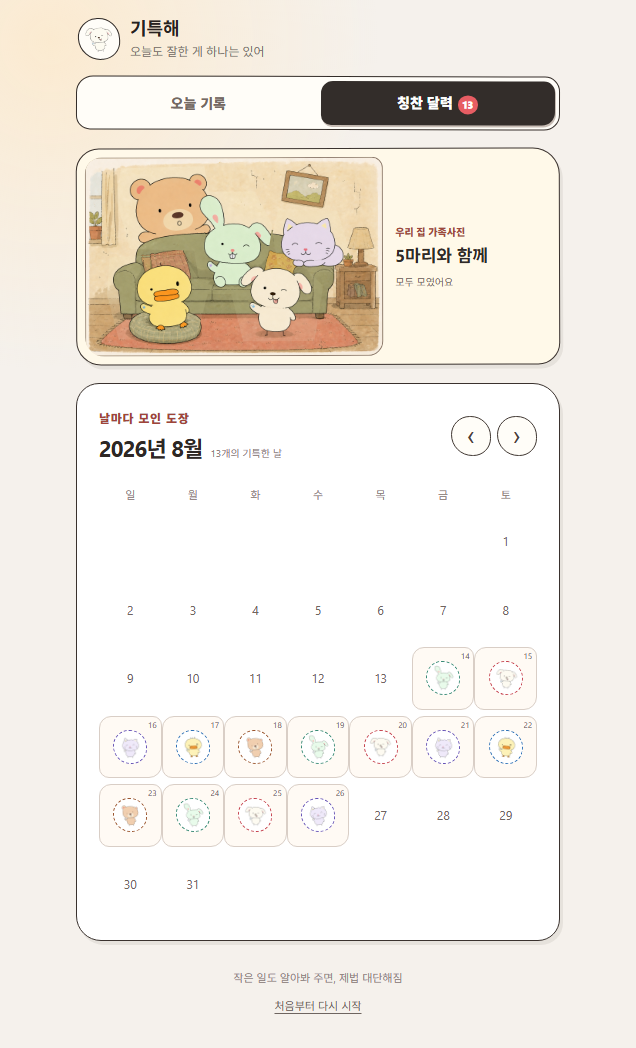
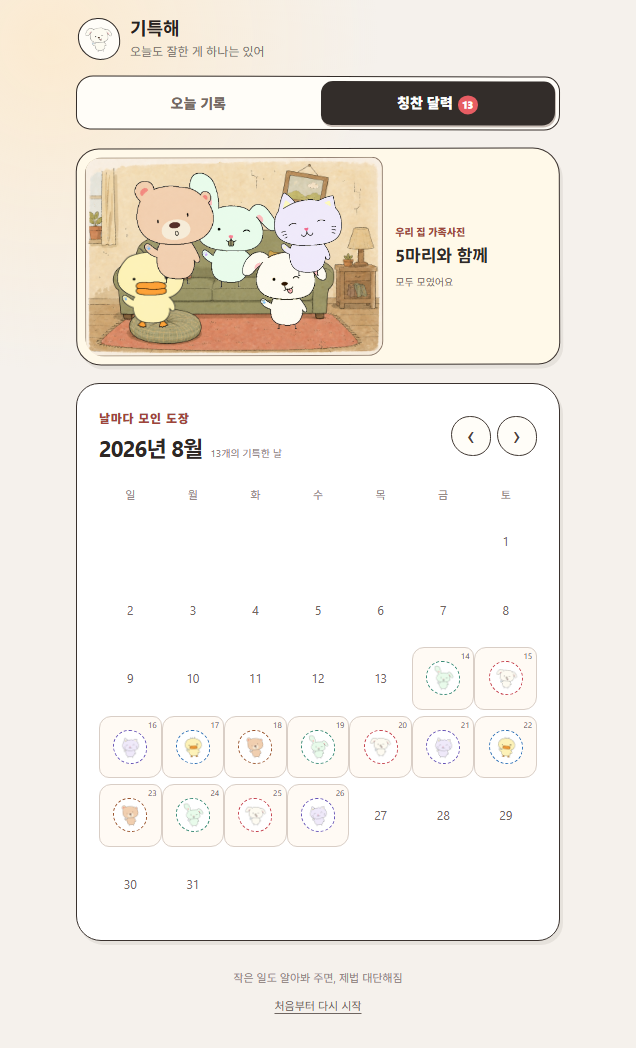
fix: compose family photo from independent animals

Changed region(s): [[0.1792, 0.1527, 0.5377, 0.3359]]

diff --git a/src/components.tsx b/src/components.tsx
@@ -3,21 +3,19 @@ import { ANIMAL_UNLOCKS, type AnimalId } from './animals.ts'
 import { pickAnimalId, type JournalEntry } from './praise.ts'
 import { toDateKey } from './date.ts'
 import { getVisual } from './visual.ts'
-import { getFamilyPhotoState } from './family-photo.ts'
+import { getFamilyPhotoLayers, getFamilyPhotoState, type FamilyPhotoLayer } from './family-photo.ts'
 
-const FAMILY_PHOTO_LAYER_ORDER: AnimalId[] = ['bear', 'rabbit', 'cat', 'duck', 'dog']
-
-function FamilyPhotoScene({ unlockedIds }: { unlockedIds: AnimalId[] }) {
+function FamilyPhotoScene({ layers }: { layers: FamilyPhotoLayer[] }) {
   return (
-    <div className="family-photo-scene" role="img" aria-label={`${unlockedIds.length}마리 동물이 함께 있는 가족사진`}>
+    <div className="family-photo-scene" role="img" aria-label={`${layers.length}마리 동물이 함께 있는 가족사진`}>
       <img className="family-photo-room" src="/family/family-room-v1.png" alt="" aria-hidden="true" />
-      {FAMILY_PHOTO_LAYER_ORDER.filter((animalId) => unlockedIds.includes(animalId)).map((animalId) => (
+      {layers.map(({ id, src }) => (
         <img
-          className={`family-photo-layer family-photo-layer--${animalId}`}
-          src="/family/family-photo-concept-v3.png"
+          className={`family-photo-animal family-photo-animal--${id}`}
+          src={src}
           alt=""
           aria-hidden="true"
-          key={animalId}
+          key={id}
         />
       ))}
     </div>
@@ -27,6 +25,7 @@ function FamilyPhotoScene({ unlockedIds }: { unlockedIds: AnimalId[] }) {
 export function FamilyPhoto({ unlockDayCount }: { unlockDayCount: number }) {
   const [isOpen, setIsOpen] = useState(false)
   const state = getFamilyPhotoState(unlockDayCount)
+  const layers = getFamilyPhotoLayers(unlockDayCount)
   const count = state.unlockedIds.length
 
   useEffect(() => {
@@ -42,7 +41,7 @@ export function FamilyPhoto({ unlockDayCount }: { unlockDayCount: number }) {
     <>
       <section className="family-photo-card" aria-labelledby="family-photo-title">
         <button type="button" onClick={() => setIsOpen(true)} aria-label="가족사진 크게 보기">
-          <FamilyPhotoScene unlockedIds={state.unlockedIds} />
+          <FamilyPhotoScene layers={layers} />
           <span className="family-photo-caption">
             <span>우리 집 가족사진</span>
             <strong id="family-photo-title">{count === 0 ? '아직 빈자리' : `${count}마리와 함께`}</strong>
@@ -57,7 +56,7 @@ export function FamilyPhoto({ unlockDayCount }: { unlockDayCount: number }) {
             <button className="modal-close" type="button" onClick={() => setIsOpen(false)} aria-label="가족사진 닫기">×</button>
             <p className="eyebrow">하나씩 채워지는 중</p>
             <h2 id="family-photo-modal-title">기특해 가족사진</h2>
-            <FamilyPhotoScene unlockedIds={state.unlockedIds} />
+            <FamilyPhotoScene layers={layers} />
             <p>{state.nextName ? `${state.nextName}도 ${state.remainingDays}일 뒤에 같이 찍어요` : '다섯 친구가 모두 모였어요'}</p>
           </section>
         </div>

diff --git a/src/App.css b/src/App.css
@@ -378,19 +378,25 @@ textarea:focus { box-shadow: 3px 3px 0 #ffd7a8; }
   border-radius: 14px 11px 15px 12px;
   background: #f5e8ca;
 }
-.family-photo-room,
-.family-photo-layer {
+.family-photo-room {
   position: absolute;
   inset: 0;
   width: 100%;
   height: 100%;
   object-fit: fill;
 }
-.family-photo-layer--bear { clip-path: polygon(12% 5%, 40% 4%, 44% 39%, 38% 47%, 15% 46%, 10% 20%); }
-.family-photo-layer--rabbit { clip-path: polygon(39% 17%, 57% 17%, 63% 34%, 61% 53%, 59% 69%, 39% 69%, 35% 34%); }
-.family-photo-layer--cat { clip-path: polygon(65% 26%, 85% 27%, 89% 48%, 85% 58%, 65% 58%, 63% 38%); }
-.family-photo-layer--duck { clip-path: polygon(8% 50%, 33% 49%, 41% 69%, 37% 92%, 11% 92%, 7% 69%); }
-.family-photo-layer--dog { clip-path: polygon(50% 55%, 73% 54%, 80% 65%, 77% 93%, 53% 93%, 49% 69%); }
+.family-photo-animal {
+  position: absolute;
+  z-index: 1;
+  height: auto;
+  object-fit: contain;
+  pointer-events: none;
+}
+.family-photo-animal--bear { bottom: 24%; left: 4%; width: 52%; }
+.family-photo-animal--rabbit { bottom: 24%; left: 24%; width: 50%; }
+.family-photo-animal--cat { bottom: 29%; left: 53%; width: 44%; }
+.family-photo-animal--duck { bottom: 2%; left: 1%; width: 42%; }
+.family-photo-animal--dog { bottom: 1%; left: 45%; width: 44%; }
 .family-photo-caption { display: flex; min-width: 0; flex: 1; flex-direction: column; padding-right: 8px; }
 .family-photo-caption > span { color: #9d493d; font-size: 10px; font-weight: 900; }
 .family-photo-caption strong { margin-top: 6px; color: #302a27; font-size: 17px; line-height: 1.25; }

diff --git a/src/family-photo.ts b/src/family-photo.ts
@@ -6,6 +6,19 @@ export interface FamilyPhotoState {
   remainingDays: number
 }
 
+export interface FamilyPhotoLayer {
+  id: AnimalId
+  src: string
+}
+
+const FAMILY_PHOTO_ASSETS: Record<AnimalId, string> = {
+  rabbit: '/characters/rabbit-v2.png',
+  dog: '/characters/dog-v2.png',
+  cat: '/characters/cat-v2.png',
+  duck: '/characters/duck-v2.png',
+  bear: '/characters/bear-v2.png',
+}
+
 export function getFamilyPhotoState(unlockDayCount: number): FamilyPhotoState {
   const unlockedIds = ANIMAL_UNLOCKS
     .filter((animal) => unlockDayCount >= animal.min)
@@ -17,4 +30,11 @@ export function getFamilyPhotoState(unlockDayCount: number): FamilyPhotoState {
     nextName: next?.name ?? null,
     remainingDays: next ? next.min - unlockDayCount : 0,
   }
+}
+
+export function getFamilyPhotoLayers(unlockDayCount: number): FamilyPhotoLayer[] {
+  return getFamilyPhotoState(unlockDayCount).unlockedIds.map((id) => ({
+    id,
+    src: FAMILY_PHOTO_ASSETS[id],
+  }))
 }

diff --git a/src/family-photo.test.ts b/src/family-photo.test.ts
@@ -1,6 +1,13 @@
 import assert from 'node:assert/strict'
 import test from 'node:test'
-import { getFamilyPhotoState } from './family-photo.ts'
+import { getFamilyPhotoLayers, getFamilyPhotoState } from './family-photo.ts'
+
+test('해금된 동물은 완성 사진 조각이 아닌 독립 이미지로 구성한다', () => {
+  assert.deepEqual(getFamilyPhotoLayers(3), [
+    { id: 'rabbit', src: '/characters/rabbit-v2.png' },
+    { id: 'dog', src: '/characters/dog-v2.png' },
+  ])
+})
 
 test('누적 일수에 따라 가족사진 자리가 순서대로 채워진다', () => {
   assert.deepEqual(getFamilyPhotoState(0), {

diff --git a/docs/ANIMAL_GUIDE.md b/docs/ANIMAL_GUIDE.md
@@ -54,11 +54,12 @@
 
 가족사진
 
-- `public/family/family-photo-concept-vN.png`에 새 동물이 자리 잡은 완성 사진 제작
-- 빈 거실의 가구·카메라·비율은 기존 사진과 동일하게 유지
-- `src/components.tsx`의 `FAMILY_PHOTO_LAYER_ORDER`에 ID 추가
-- `src/App.css`에 `.family-photo-layer--{id}` 공개 영역 추가
-- 앞서 해금된 동물이나 배경 조각이 먼저 보이지 않는지 중간 단계별 확인
+- 배경은 `public/family/family-room-v1.png` 하나만 사용
+- 동물은 배경이 완전히 투명한 개별 PNG로 준비
+- `src/family-photo.ts`의 `FAMILY_PHOTO_ASSETS`에 이미지 경로 추가
+- `src/App.css`에 `.family-photo-animal--{id}` 위치와 크기 추가
+- 완성 사진을 잘라 쓰거나 `clip-path`로 동물을 분리하지 않음
+- 중간 해금 단계마다 해당 동물만 보이는지 스크린샷 확인
 
 ### 이미지 생성 프롬프트 틀
 
